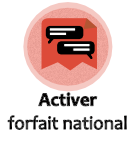
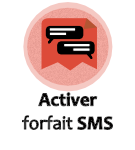
fix bugs on popover, fix bugs arrow back popToRoot, card label correct

Changed region(s): [[0.0296, 0.7467, 0.9481, 0.88]]

diff --git a/src/pages/appMattel/dialer/dialer.html b/src/pages/appMattel/dialer/dialer.html
@@ -29,7 +29,7 @@
       </ion-list>
       <ion-list>
         <ion-card>
-          <img class="" src="../assets/imgs/H_national/Forfait15.png">
+          <img class="" src="../assets/imgs/H_national/Forfait15.png" (click)="presentConfirm15minNat()">
         </ion-card>
       </ion-list>
       <ion-list>
@@ -46,7 +46,7 @@
       </ion-list>
     <ion-list>
       <ion-card>
-        <img class="" src="../assets/imgs/H_national/Forfait30minNat.png" (click)="presentConfirm30min()">
+        <img class="" src="../assets/imgs/H_national/Forfait30minNat.png" (click)="presentConfirm30minNat()">
       </ion-card>
       </ion-list>
   </div>
@@ -58,24 +58,24 @@
       </ion-list>
     <ion-list>
       <ion-card>
-        <img class="" src="../assets/imgs/H_national/Forfait1hNat.png" (click)="presentConfirm60min()">
+        <img class="" src="../assets/imgs/H_national/Forfait1hNat.png" (click)="presentConfirm1hNat()">
       </ion-card>
       </ion-list>
   </div>
   <div *ngSwitchCase="'four'">
     <ion-list>
       <ion-card>
-        <img class="" src="../assets/imgs/minuit/Forfait5min.png">
+        <img class="" src="../assets/imgs/minuit/Forfait5min.png" (click)="presentConfirm5minuit()">
       </ion-card>
     </ion-list>
     <ion-list>
       <ion-card>
-        <img class="" src="../assets/imgs/minuit/Forfait50mo.png">
+        <img class="" src="../assets/imgs/minuit/Forfait50mo.png" (click)="presentConfirm50mominuit()">
       </ion-card>
     </ion-list>
     <ion-list>
       <ion-card>
-        <img class="" src="../assets/imgs/minuit/Forfait20sms.png">
+        <img class="" src="../assets/imgs/minuit/Forfait20sms.png" (click)="presentConfirm20sms()">
       </ion-card>
     </ion-list>
   </div>

diff --git a/src/pages/appMattel/dialer/dialer.ts b/src/pages/appMattel/dialer/dialer.ts
@@ -16,22 +16,46 @@ export class DialerPage {
   constructor(private callNumber: CallNumber,
               public opMattelProvider: OperatorMattelProvider) {
   }
-
+  
   ionViewDidLoad() {
     console.log('ionViewDidLoad DialerPage');
   }
+  //Forfait Max + Nat
   presentConfirm10min() {
     this.opMattelProvider.present10min();
+  }
+  presentConfirm15minNat() {
+    this.opMattelProvider.present15minNat();
   }
   presentConfirm20min() {
     this.opMattelProvider.present20min();
   }
+  presentConfirm30minNat() {
+    this.opMattelProvider.present30minNat() ;
+  }
   presentConfirm30min() {
     this.opMattelProvider.present30min();
+  }
+  presentConfirm1hNat() {
+    this.opMattelProvider.present1hNat();
   }
   presentConfirm60min() {
     this.opMattelProvider.present60min();
   }
+
+  // Forfait Minuit
+  presentConfirm5minuit() {
+    this.opMattelProvider.present5minuit();
+  }
+  presentConfirm50mominuit() {
+    this.opMattelProvider.present50mominuit();
+  }
+  presentConfirm20sms() {
+    this.opMattelProvider.present20sms();
+  }
+
+
+
   cptMattel() {
     this.callNumber.callNumber("*130#", true)
       .then(res => console.log('Launched dialer!', res))

diff --git a/src/pages/appMattel/popover-credit/popover-credit.ts b/src/pages/appMattel/popover-credit/popover-credit.ts
@@ -1,21 +1,13 @@
 import { Component } from '@angular/core';
 import { NavController, NavParams, ViewController } from 'ionic-angular';
 import { CallNumber } from '@ionic-native/call-number';
+
 @Component({
-//   template: `
-//   <ion-list>
-//     <ion-list-header>Ionic</ion-list-header>
-//     <button ion-item (click)="close()">Learn Ionic</button>
-//     <button ion-item (click)="close()">Documentation</button>
-//     <button ion-item (click)="close()">Showcase</button>
-//     <button ion-item (click)="close()">GitHub Repo</button>
-//   </ion-list>
-// `
   selector: 'page-popover-credit',
   templateUrl: 'popover-credit.html',
 })
 export class PopoverCreditPage {
-  startNo:"*133*";
+  startNo:string='*133*';
   endNo:string='#';
   inputNo:number;
   finalVal:string;
@@ -39,6 +31,7 @@ export class PopoverCreditPage {
   recharge(){
     this.finalVal = this.startNo+this.inputNo+this.endNo;
     console.log(this.inputNo);
+    console.log(this.startNo);
     this.callNumber.callNumber(this.finalVal, true)
       .then(res => console.log('Launched dialer!', res))
       .catch(res => console.log('Error launching dialer', res));

diff --git a/src/pages/appChinguitel/home-chinguitel/home-chinguitel.ts b/src/pages/appChinguitel/home-chinguitel/home-chinguitel.ts
@@ -1,5 +1,6 @@
 import { Component } from '@angular/core';
-import { NavController, NavParams } from 'ionic-angular';
+import { NavController, NavParams, ViewController, App, AlertController, PopoverController } from 'ionic-angular';
+import { CallNumber } from '@ionic-native/call-number';
 
 @Component({
   selector: 'page-home-chinguitel',
@@ -7,11 +8,16 @@ import { NavController, NavParams } from 'ionic-angular';
 })
 export class HomeChinguitelPage {
 
-  constructor(public navCtrl: NavController, public navParams: NavParams) {
-  }
+  
+  constructor(public navCtrl: NavController,
+    public viewCtrl: ViewController,
+    public appCtrl: App ) {}
 
   ionViewDidLoad() {
     console.log('ionViewDidLoad HomeChinguitelPage');
   }
+  goBack() {
+    this.appCtrl.getRootNav().pop();
+  } 
 
 }

diff --git a/src/pages/appMauritel/home-mauritel/home-mauritel.ts b/src/pages/appMauritel/home-mauritel/home-mauritel.ts
@@ -1,5 +1,6 @@
 import { Component } from '@angular/core';
-import {  NavController, NavParams } from 'ionic-angular';
+import {  NavController, ViewController, AlertController, PopoverController, App } from 'ionic-angular';
+import { CallNumber } from '@ionic-native/call-number';
 
 @Component({
   selector: 'page-home-mauritel',
@@ -7,11 +8,16 @@ import {  NavController, NavParams } from 'ionic-angular';
 })
 export class HomeMauritelPage {
 
-  constructor(public navCtrl: NavController, public navParams: NavParams) {
+  constructor(public navCtrl: NavController,
+    public viewCtrl: ViewController,
+    public appCtrl: App) {
   }
 
   ionViewDidLoad() {
     console.log('ionViewDidLoad HomeMauritelPage');
   }
+  goBack() {
+    this.appCtrl.getRootNav().pop();
+  }  
 
 }

diff --git a/src/pages/appMauritel/home-mauritel/home-mauritel.html b/src/pages/appMauritel/home-mauritel/home-mauritel.html
@@ -1,17 +1,18 @@
-<!--
-  Generated template for the HomeMauritelPage page.
-
-  See http://ionicframework.com/docs/components/#navigation for more info on
-  Ionic pages and navigation.
--->
 <ion-header>
-
-  <ion-navbar>
-    <ion-title>homeMauritel</ion-title>
-  </ion-navbar>
-
+  <ion-toolbar>
+      <ion-buttons left>
+      <button ion-button (click)="goBack()">
+        <ion-icon ios="ios-arrow-back" md="md-arrow-back"></ion-icon>
+      </button>
+    </ion-buttons>
+    <ion-title>Bonjour, <b>Mohamed</b></ion-title>
+    <ion-buttons right>
+        <button ion-button>
+          <ion-icon name="heart"></ion-icon>
+        </button>
+      </ion-buttons>
+  </ion-toolbar>
 </ion-header>
-
 
 <ion-content padding>
 

diff --git a/src/pages/appChinguitel/home-chinguitel/home-chinguitel.html b/src/pages/appChinguitel/home-chinguitel/home-chinguitel.html
@@ -1,15 +1,17 @@
-<!--
-  Generated template for the HomeChinguitelPage page.
-
-  See http://ionicframework.com/docs/components/#navigation for more info on
-  Ionic pages and navigation.
--->
 <ion-header>
-
-  <ion-navbar>
-    <ion-title>homeChinguitel</ion-title>
-  </ion-navbar>
-
+  <ion-toolbar>
+      <ion-buttons left>
+      <button ion-button (click)="goBack()">
+        <ion-icon ios="ios-arrow-back" md="md-arrow-back"></ion-icon>
+      </button>
+    </ion-buttons>
+    <ion-title>Bonjour, <b>Mohamed</b></ion-title>
+    <ion-buttons right>
+        <button ion-button>
+          <ion-icon name="heart"></ion-icon>
+        </button>
+      </ion-buttons>
+  </ion-toolbar>
 </ion-header>
 
 

diff --git a/src/pages/appMattel/home/home.ts b/src/pages/appMattel/home/home.ts
@@ -8,6 +8,7 @@ import { DialerPage } from '../dialer/dialer';
 import { ConfortPage } from '../confort/confort';
 import { MessagesPage } from '../messages/messages';
 import { InternetPage } from '../internet/internet';
+import { HomeRootPage } from '../../home-root/home-root';
 
 @Component({
   selector: 'page-home',
@@ -27,11 +28,13 @@ export class HomePage {
               public popoverCtrl: PopoverController ) {
               
   }
-  
 
-goBack() {
-    this.location.back();
+  ionViewWillLeave() {
+    console.log("Looks like I'm about to leave :(");
   }
+  goBack() {
+    this.appCtrl.getRootNav().pop();
+  }  
   goToDialer() {
     this.navCtrl.push(DialerPage);
   }

diff --git a/src/pages/appMattel/home/home.html b/src/pages/appMattel/home/home.html
@@ -1,13 +1,13 @@
 <ion-header>
   <ion-toolbar>
-      <ion-buttons start>
-      <button ion-button icon-only (click)="goBack()">
-        <ion-icon name="arrow-back-outline"></ion-icon>
+      <ion-buttons left>
+      <button ion-button (click)="goBack()">
+        <ion-icon ios="ios-arrow-back" md="md-arrow-back"></ion-icon>
       </button>
     </ion-buttons>
     <ion-title>Bonjour, <b>Mohamed</b></ion-title>
-    <ion-buttons end>
-        <button ion-button icon-only>
+    <ion-buttons right>
+        <button ion-button>
           <ion-icon name="heart"></ion-icon>
         </button>
       </ion-buttons>

diff --git a/src/pages/appMattel/tabs/tabs.ts b/src/pages/appMattel/tabs/tabs.ts
@@ -10,13 +10,11 @@ import { MessagesPage } from '../messages/messages';
   templateUrl: 'tabs.html',
 })
 export class TabsPage {
-
   tab1Root = HomePage;
   tab2Root = DialerPage;
   tab3Root = InternetPage;
   tab4Root = MessagesPage;
   loaded:   boolean = false;
-  tabIndex: number  = 0;
 
   constructor(public navCtrl: NavController, public navParams: NavParams) { 
   }

diff --git a/src/pages/appMattel/tabs/tabs.html b/src/pages/appMattel/tabs/tabs.html
@@ -1,4 +1,4 @@
-<ion-tabs>
+<ion-tabs selectedIndex="0">
   <ion-tab [root]="tab1Root" tabTitle="Mon compte" tabIcon="home"></ion-tab>
   <ion-tab [root]="tab2Root" tabTitle="Heures" tabIcon="time"></ion-tab>
   <ion-tab [root]="tab3Root" tabTitle="Internet" tabIcon="wifi"></ion-tab>
